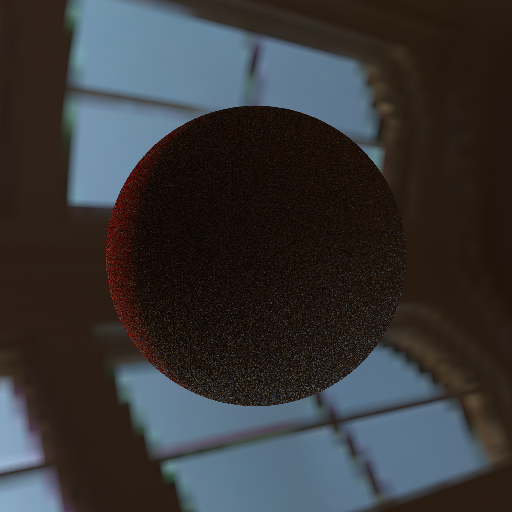
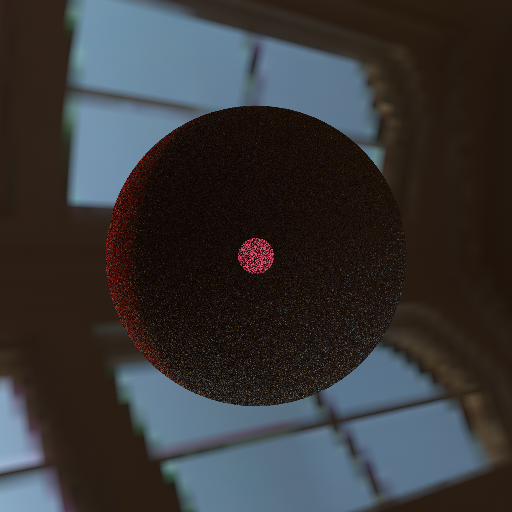
working laser

diff --git a/utils/test_laser.py b/utils/test_laser.py
@@ -2,7 +2,6 @@ import mitsuba as mi
 import matplotlib.pyplot as plt
 
 mi.set_variant('llvm_ad_rgb')
-# mi.set_variant('scalar_rgb')
 
 scene = mi.load_dict({
     'type': 'scene',
@@ -55,7 +54,7 @@ scene = mi.load_dict({
             'value': [2, 0.2, 0.4],
         }
     },
-    'light2':{
+    'light3':{
         'type': 'directional',
     'direction': [1.0, 0.0, 0.0],
     'irradiance': {
